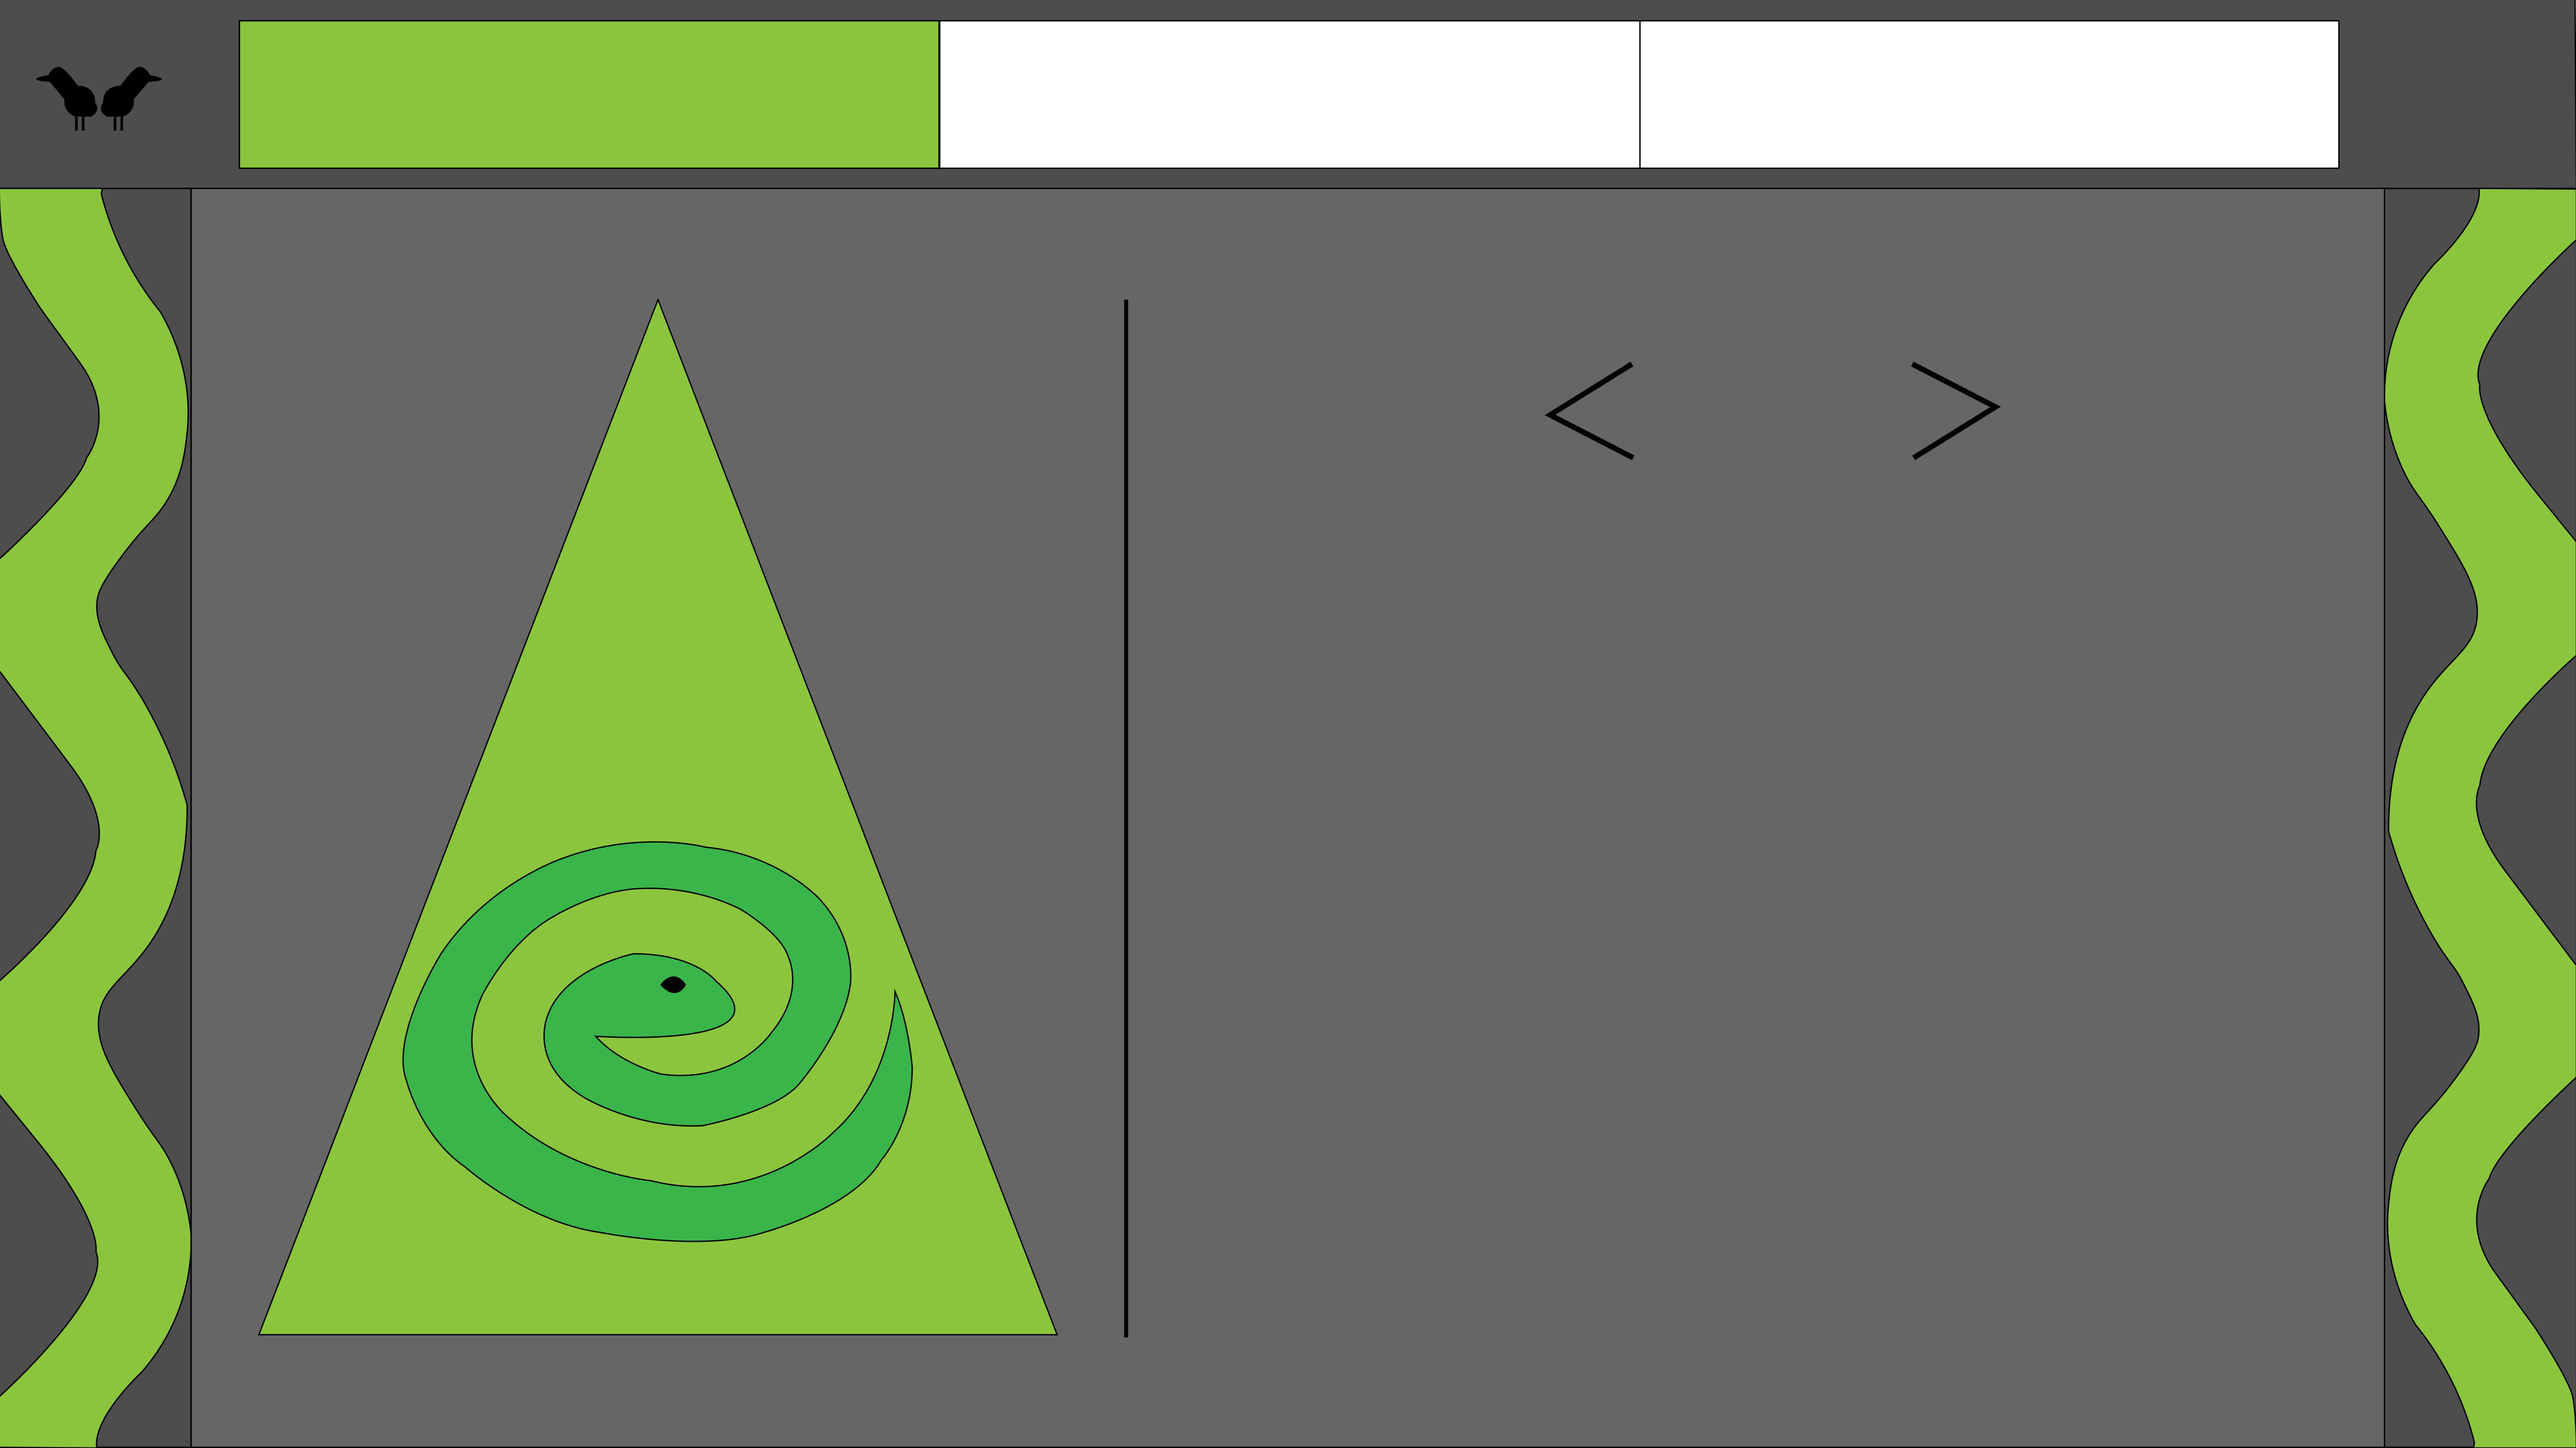
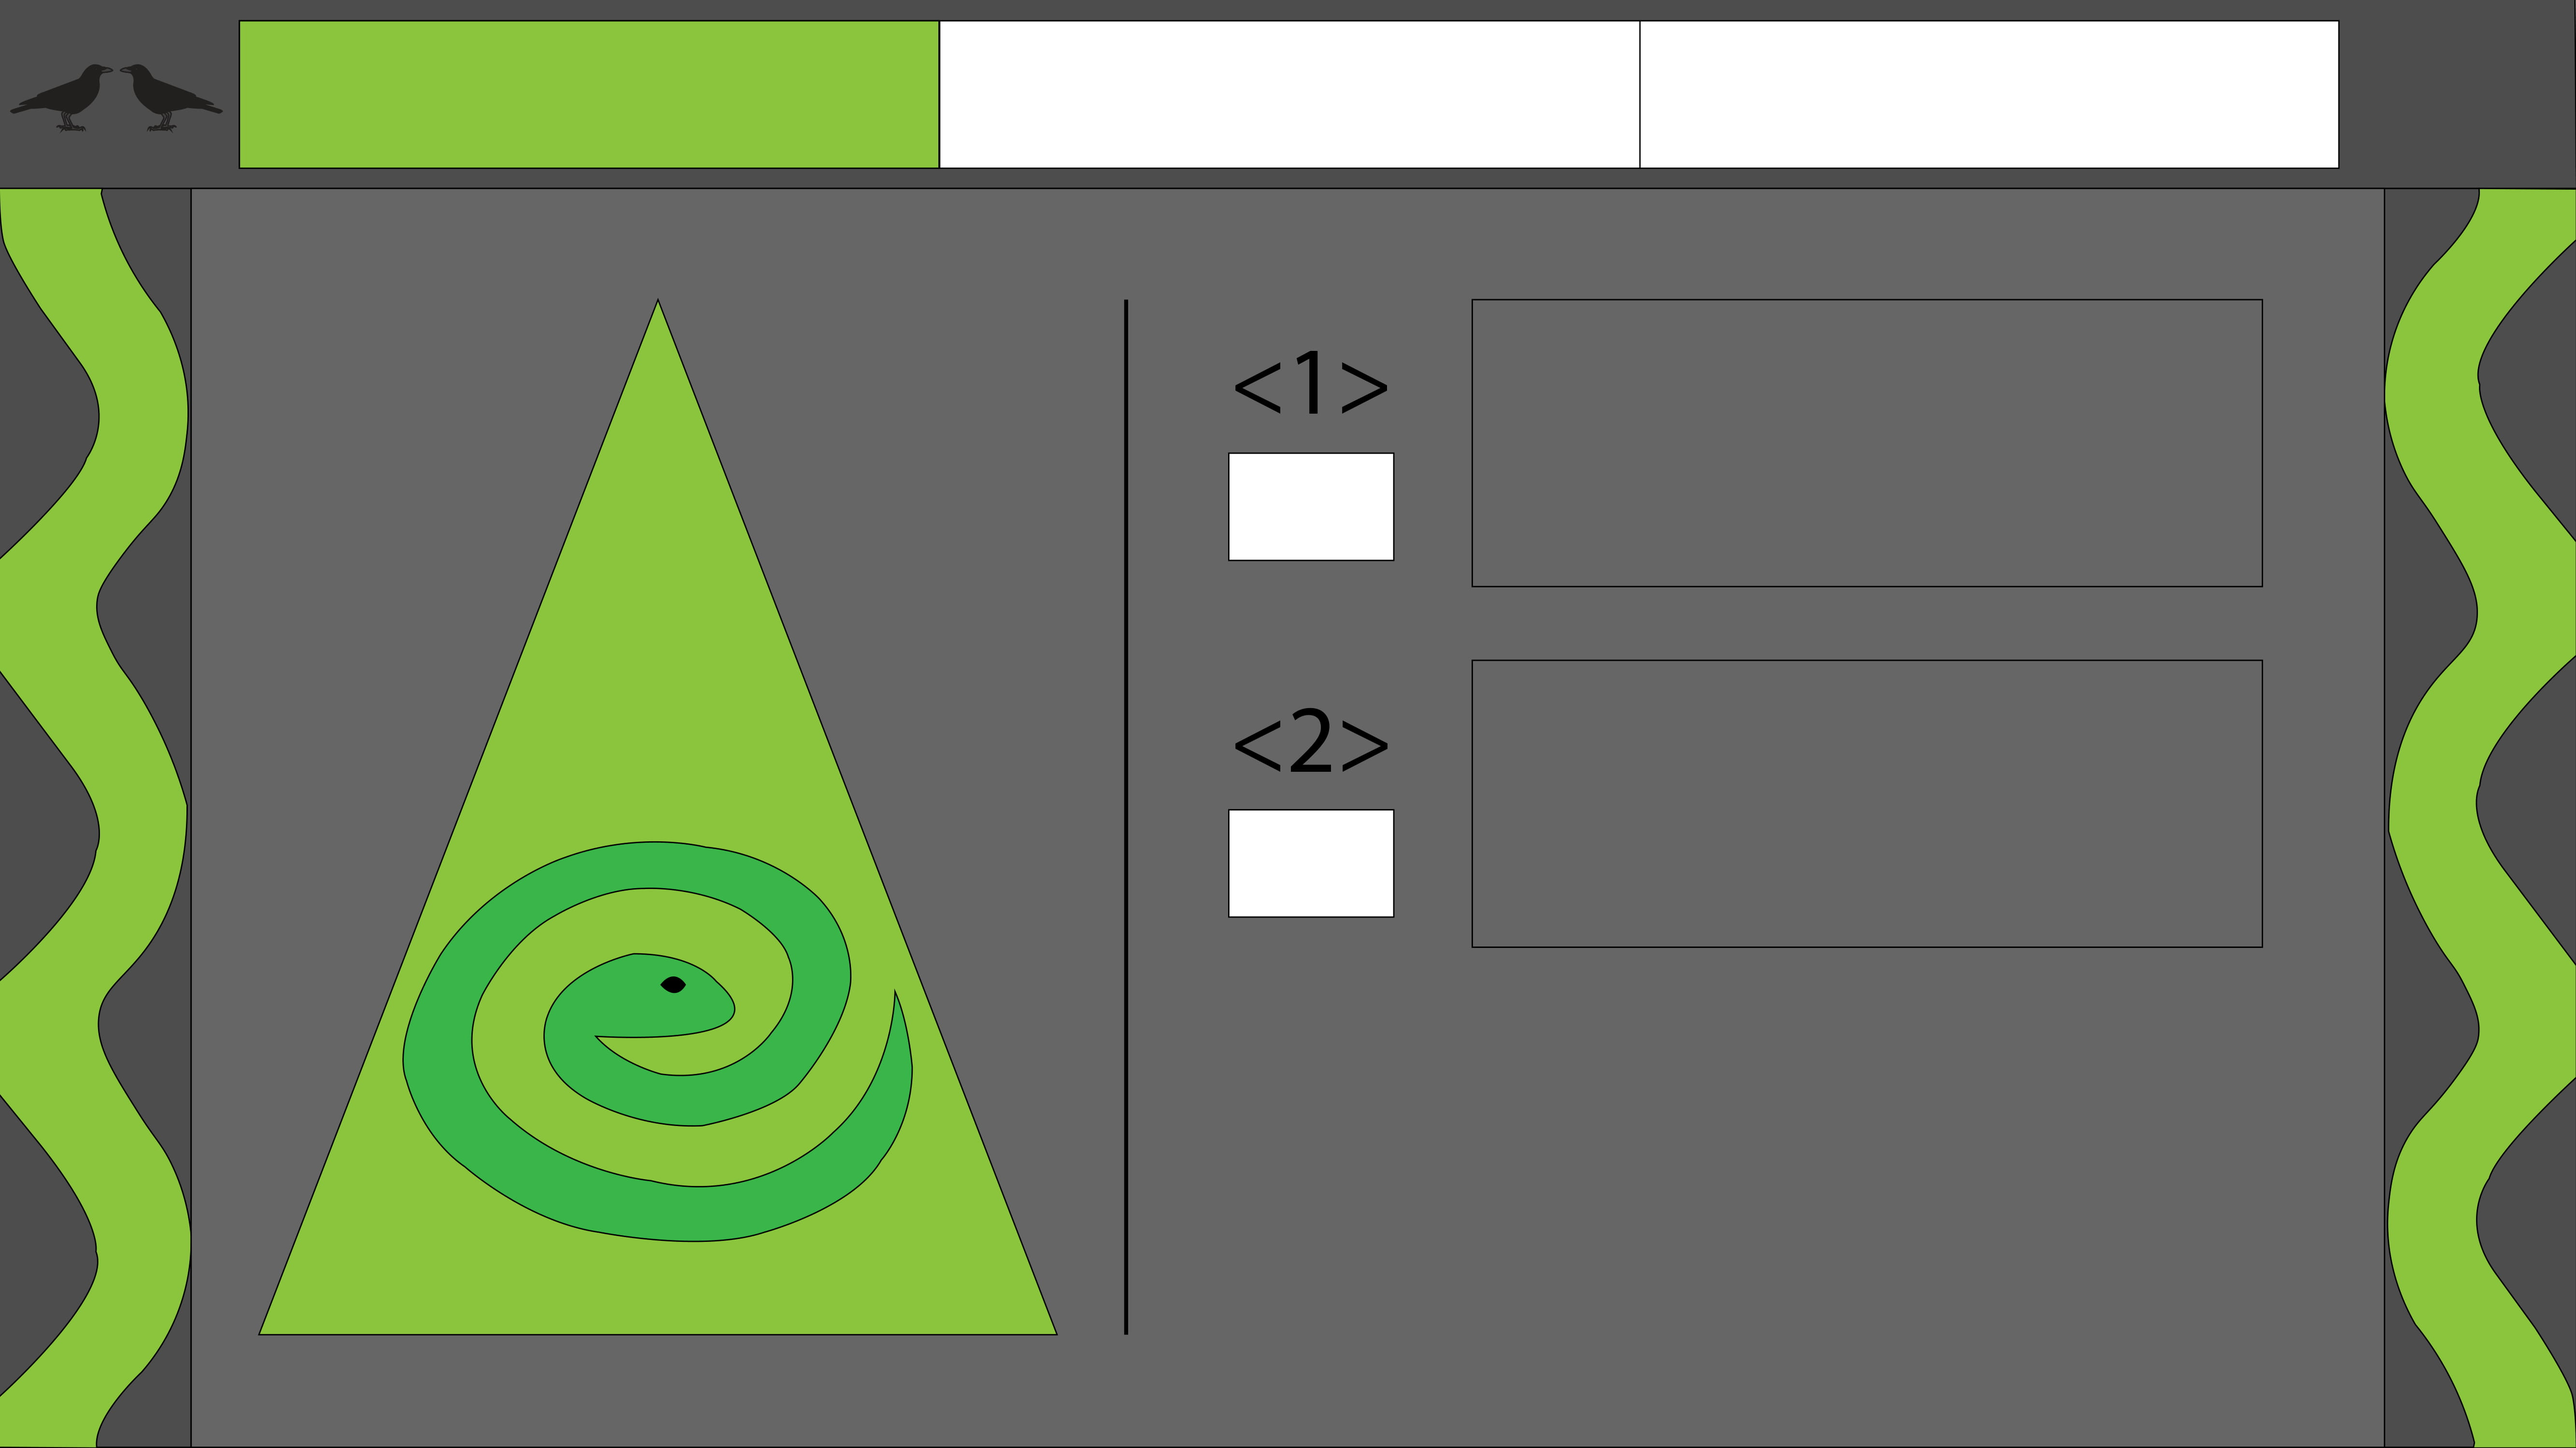
Fixade till så de nya bilderna funkade på min dator och fixade till meny knapparna så de sitter rätt på plats i de nya bilderna (BILD UPPDATERING)

diff --git a/src/mimo/startMeny.java b/src/mimo/startMeny.java
@@ -24,7 +24,7 @@ public class startMeny extends JPanel
 		this.setLayout(null);
 		
 		this.add(startButton);
-		startButton.setBounds((int) Math.round(505 * start.widthSize), (int) Math.round(250 * start.heightSize), (int) Math.round(330 * start.widthSize), (int) Math.round(105 * start.heightSize));
+		startButton.setBounds((int) Math.round(478 * start.widthSize), (int) Math.round(228 * start.heightSize), (int) Math.round(410 * start.widthSize), (int) Math.round(126 * start.heightSize));
 		startButton.addActionListener(new startButton());
 		startButton.setContentAreaFilled(start.synligaKnappar);
 		startButton.setFocusPainted(start.synligaKnappar);
@@ -33,7 +33,7 @@ public class startMeny extends JPanel
 		startButton.setText("Start");
 		
 		this.add(settingsButton);
-		settingsButton.setBounds((int) Math.round(540 * start.widthSize), (int) Math.round(466 * start.heightSize), (int) Math.round(265 * start.widthSize), (int) Math.round(85 * start.heightSize));
+		settingsButton.setBounds((int) Math.round(520 * start.widthSize), (int) Math.round(384 * start.heightSize), (int) Math.round(327 * start.widthSize), (int) Math.round(104 * start.heightSize));
 		settingsButton.addActionListener(new settingsButton());
 		settingsButton.setContentAreaFilled(start.synligaKnappar);
 		settingsButton.setFocusPainted(start.synligaKnappar);
@@ -42,7 +42,7 @@ public class startMeny extends JPanel
 		settingsButton.setText("Settings");
 		
 		this.add(quitButton);
-		quitButton.setBounds((int) Math.round(540 * start.widthSize), (int) Math.round(564 * start.heightSize), (int) Math.round(265 * start.widthSize), (int) Math.round(82 * start.heightSize));
+		quitButton.setBounds((int) Math.round(520 * start.widthSize), (int) Math.round(521 * start.heightSize), (int) Math.round(327 * start.widthSize), (int) Math.round(103 * start.heightSize));
 		quitButton.addActionListener(new quitButton());
 		quitButton.setContentAreaFilled(start.synligaKnappar);
 		quitButton.setFocusPainted(start.synligaKnappar);

diff --git a/src/mimo/start.java b/src/mimo/start.java
@@ -1,4 +1,4 @@
-package mimo;//l
+package mimo;
 
 import java.awt.Toolkit;
 import java.io.File;
@@ -14,7 +14,7 @@ import javax.swing.JPanel;
 
 public class start 
 {
-	static boolean synligaKnappar = true;
+	static boolean synligaKnappar = false;
 	static double widthSize = Toolkit.getDefaultToolkit().getScreenSize().getWidth()/1366, heightSize = Toolkit.getDefaultToolkit().getScreenSize().getHeight()/768;
 	static URL[] filer = { start.class.getResource("/Bilder/startMenu.jpg"), start.class.getResource("/Bilder/tabMenu.jpg"), start.class.getResource("/Bilder/flashcardMenu.jpg"), start.class.getResource("/Bilder/flashcardGame.jpg"), start.class.getResource("/Bilder/readingMenu.jpg"), start.class.getResource("/Bilder/flashcardList.jpg"), start.class.getResource("/Bilder/readingGame.jpg"), start.class.getResource("/Bilder/settingsMenu.jpg")};
 	static Formatter filskapare;
